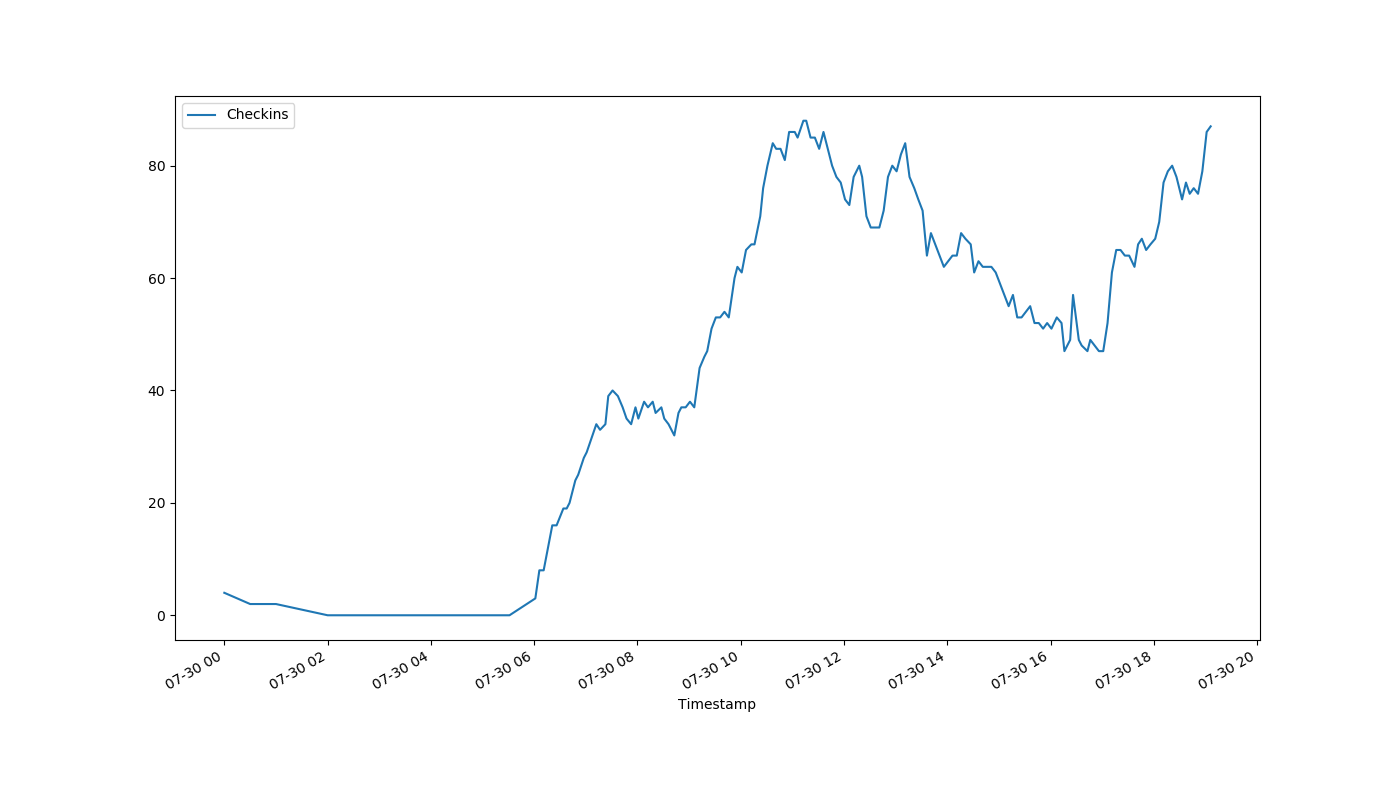
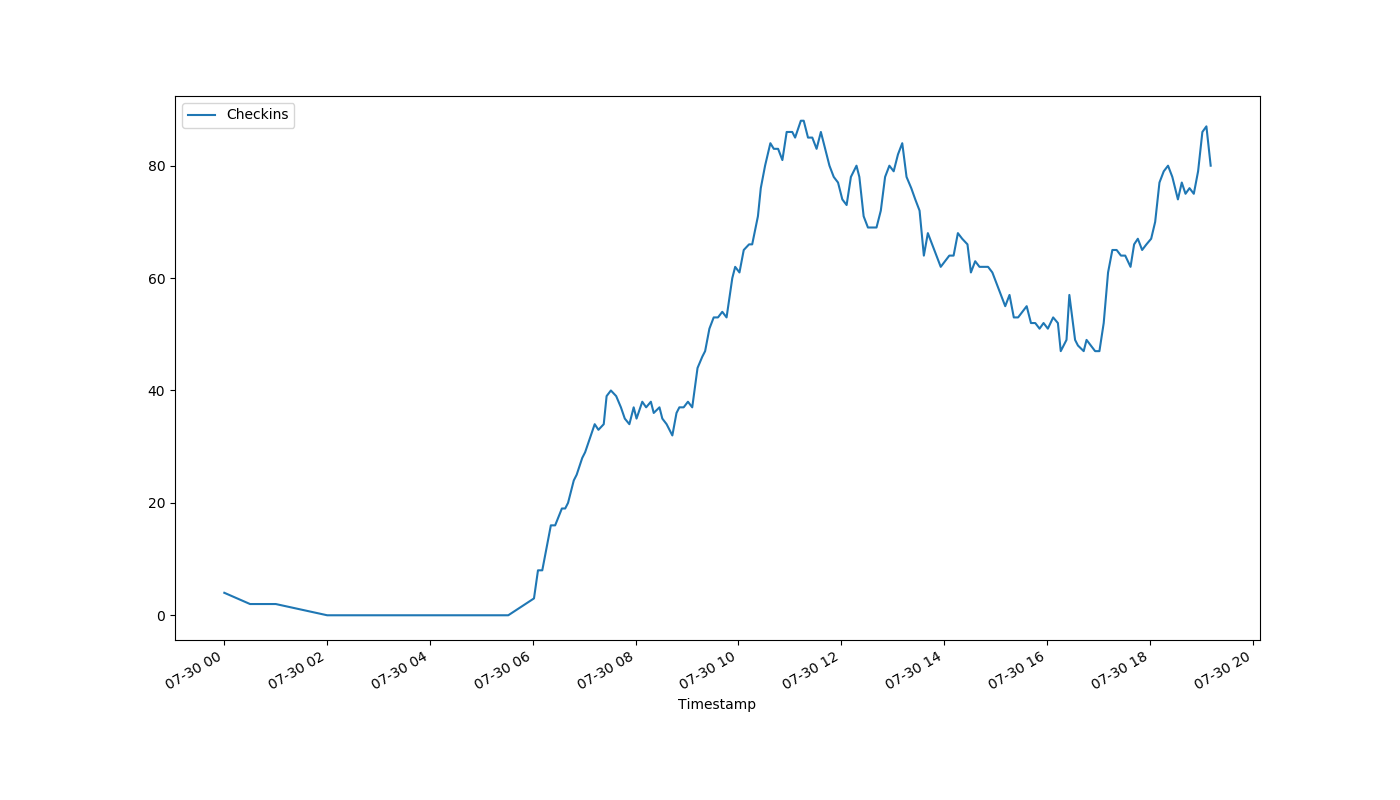
auto-Jul-30-19:12:02

diff --git a/index.html b/index.html
@@ -1,1 +1,1 @@
-<!DOCTYPE html><html><head><meta http-equiv="refresh" content="30"><link rel='stylesheet' href='holmcurrent.css'></head><body><p id='count'>87</p><div id='graph-wrap'><img id='graph' src='holmgraph-Jul-30.png'></div><p id='updated'>Last updated 19:06:09 / 19:06:00</p></body></html>
+<!DOCTYPE html><html><head><meta http-equiv="refresh" content="30"><link rel='stylesheet' href='holmcurrent.css'></head><body><p id='count'>80</p><div id='graph-wrap'><img id='graph' src='holmgraph-Jul-30.png'></div><p id='updated'>Last updated 19:11:09 / 19:11:00</p></body></html>
